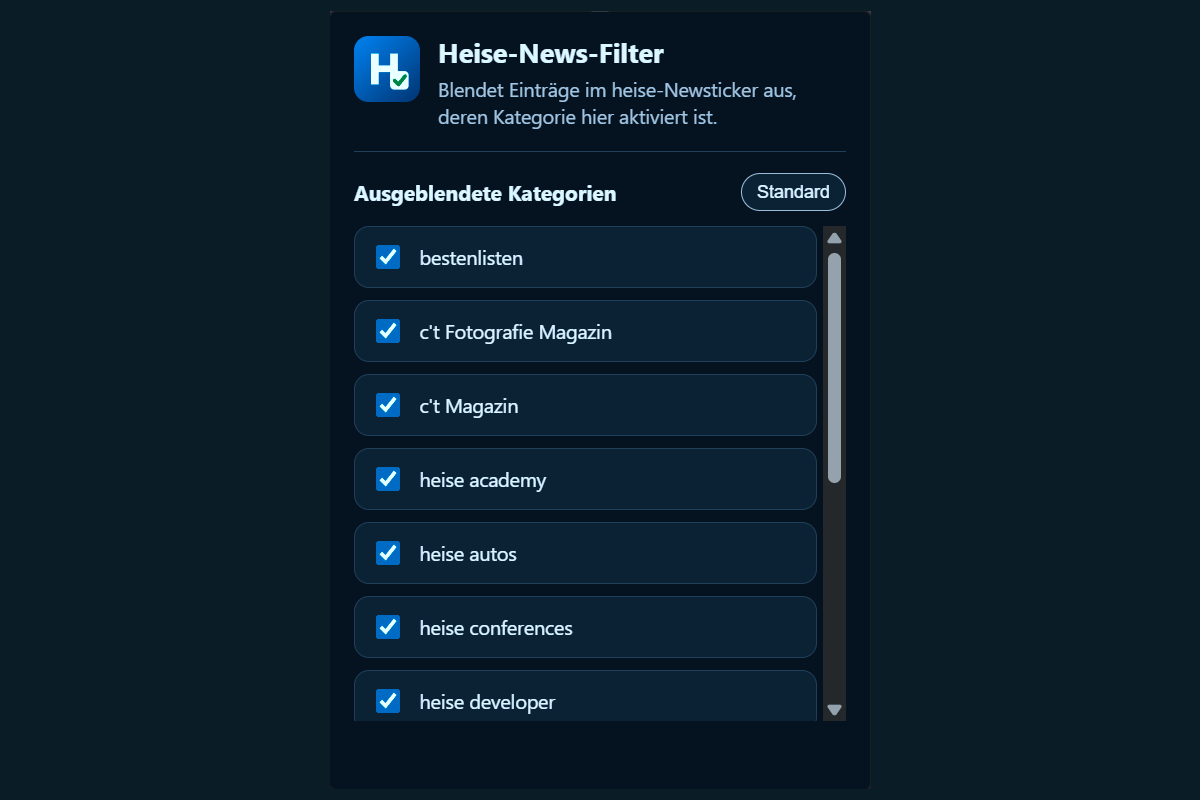
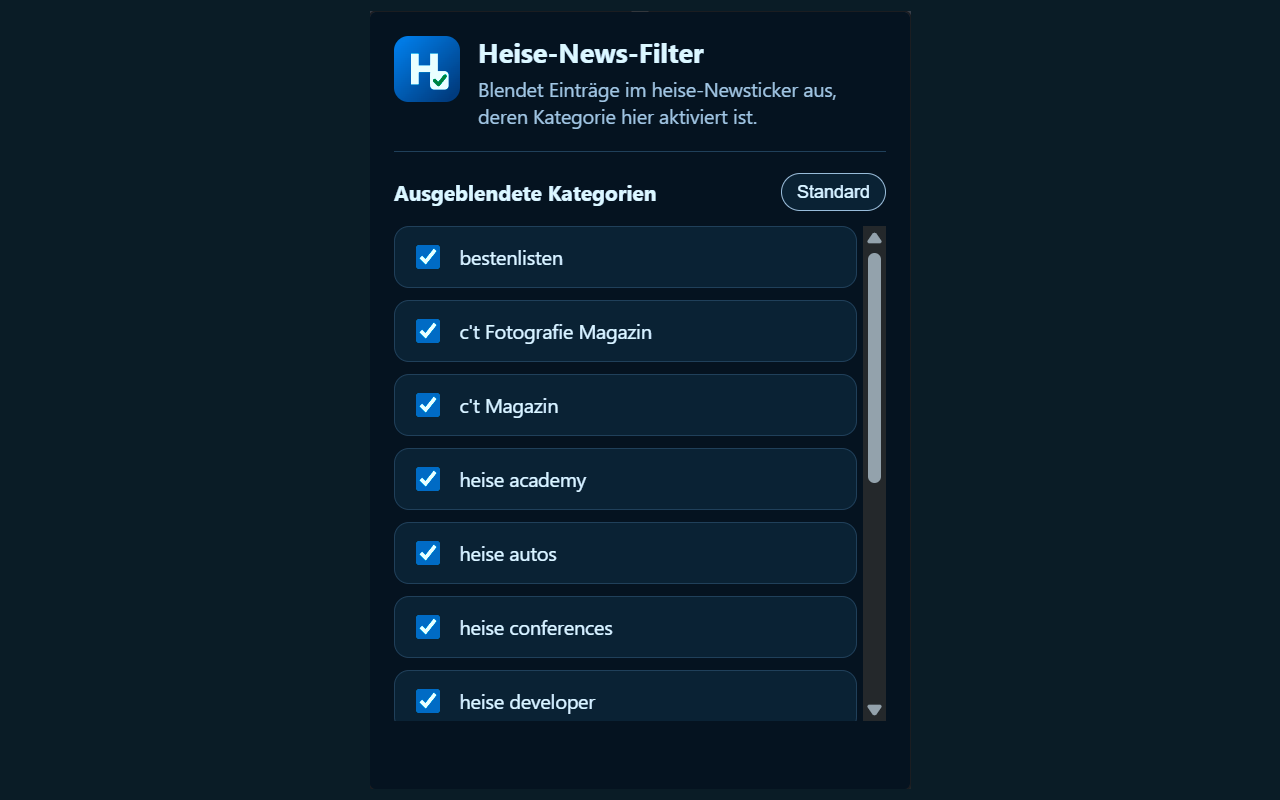
Add configurable title-based heise news filters

diff --git a/content.js b/content.js
@@ -1,22 +1,29 @@
 (async function () {
   const hiddenAttribute = "data-heise-news-filter-hidden";
   let hiddenCategories = new Set(DEFAULT_HIDDEN_CATEGORIES);
+  let hiddenTitleFilters = new Set(DEFAULT_HIDDEN_TITLE_FILTERS);
   let knownCategories = new Set(SEEDED_CATEGORIES);
   let observer;
 
-  function findCategory(article) {
+  function findCategories(article) {
     const meta = article.querySelector(".typo-meta.text-accent");
 
     if (!meta) {
-      return "";
+      return [];
     }
 
-    const visibleSpans = [...meta.querySelectorAll("span")]
+    return [...meta.querySelectorAll("span")]
       .filter((span) => !span.classList.contains("sr-only"))
       .map((span) => normalizeCategory(span.textContent || ""))
       .filter(Boolean);
+  }
 
-    return visibleSpans.at(-1) || "";
+  function findTitle(article) {
+    return article.querySelector("h3")?.textContent?.replace(/\s+/g, " ").trim() || "";
+  }
+
+  function isTitleHidden(title) {
+    return TITLE_FILTERS.some((filter) => hiddenTitleFilters.has(filter.id) && filter.pattern.test(title));
   }
 
   function getArticles() {
@@ -39,12 +46,11 @@
     const foundCategories = [];
 
     for (const article of getArticles()) {
-      const category = findCategory(article);
-      const shouldHide = category && hiddenCategories.has(category);
+      const categories = findCategories(article);
+      const title = findTitle(article);
+      const shouldHide = categories.some((category) => hiddenCategories.has(category)) || isTitleHidden(title);
 
-      if (category) {
-        foundCategories.push(category);
-      }
+      foundCategories.push(...categories);
 
       article.hidden = shouldHide;
       article.toggleAttribute(hiddenAttribute, shouldHide);
@@ -56,10 +62,12 @@
   async function loadSettings() {
     const stored = await storageGet({
       [STORAGE_KEYS.hiddenCategories]: DEFAULT_HIDDEN_CATEGORIES,
+      [STORAGE_KEYS.hiddenTitleFilters]: DEFAULT_HIDDEN_TITLE_FILTERS,
       [STORAGE_KEYS.knownCategories]: SEEDED_CATEGORIES
     });
 
     hiddenCategories = new Set(uniqueCategories(stored[STORAGE_KEYS.hiddenCategories]));
+    hiddenTitleFilters = new Set(uniqueTitleFilterIds(stored[STORAGE_KEYS.hiddenTitleFilters]));
     knownCategories = new Set(uniqueCategories([
       ...SEEDED_CATEGORIES,
       ...stored[STORAGE_KEYS.knownCategories]
@@ -69,12 +77,21 @@
   }
 
   chrome.storage.onChanged.addListener((changes, areaName) => {
-    if (areaName !== "sync" || !changes[STORAGE_KEYS.hiddenCategories]) {
+    if (areaName !== "sync") {
       return;
     }
 
-    hiddenCategories = new Set(uniqueCategories(changes[STORAGE_KEYS.hiddenCategories].newValue || []));
-    applyFilters();
+    if (changes[STORAGE_KEYS.hiddenCategories]) {
+      hiddenCategories = new Set(uniqueCategories(changes[STORAGE_KEYS.hiddenCategories].newValue || []));
+    }
+
+    if (changes[STORAGE_KEYS.hiddenTitleFilters]) {
+      hiddenTitleFilters = new Set(uniqueTitleFilterIds(changes[STORAGE_KEYS.hiddenTitleFilters].newValue || []));
+    }
+
+    if (changes[STORAGE_KEYS.hiddenCategories] || changes[STORAGE_KEYS.hiddenTitleFilters]) {
+      applyFilters();
+    }
   });
 
   await loadSettings();

diff --git a/popup.js b/popup.js
@@ -1,7 +1,9 @@
 const listElement = document.querySelector("#category-list");
+const titleFilterListElement = document.querySelector("#title-filter-list");
 const statusElement = document.querySelector("#status");
 const resetButton = document.querySelector("#reset-button");
 let hiddenCategories = new Set(DEFAULT_HIDDEN_CATEGORIES);
+let hiddenTitleFilters = new Set(DEFAULT_HIDDEN_TITLE_FILTERS);
 let statusTimer;
 
 function showStatus(message) {
@@ -14,6 +16,11 @@ function showStatus(message) {
 
 async function saveHiddenCategories() {
   await storageSet({ [STORAGE_KEYS.hiddenCategories]: sortCategories(hiddenCategories) });
+  showStatus("Einstellung gespeichert.");
+}
+
+async function saveHiddenTitleFilters() {
+  await storageSet({ [STORAGE_KEYS.hiddenTitleFilters]: uniqueTitleFilterIds([...hiddenTitleFilters]) });
   showStatus("Einstellung gespeichert.");
 }
 
@@ -41,17 +48,47 @@ function createCategoryOption(category) {
   return label;
 }
 
+function createTitleFilterOption(filter) {
+  const label = document.createElement("label");
+  label.className = "category-option";
+
+  const checkbox = document.createElement("input");
+  checkbox.type = "checkbox";
+  checkbox.checked = hiddenTitleFilters.has(filter.id);
+  checkbox.addEventListener("change", async () => {
+    if (checkbox.checked) {
+      hiddenTitleFilters.add(filter.id);
+    } else {
+      hiddenTitleFilters.delete(filter.id);
+    }
+
+    await saveHiddenTitleFilters();
+  });
+
+  const text = document.createElement("span");
+  text.textContent = filter.label;
+
+  label.append(checkbox, text);
+  return label;
+}
+
 function renderCategories(categories) {
   listElement.replaceChildren(...categories.map(createCategoryOption));
+}
+
+function renderTitleFilters() {
+  titleFilterListElement.replaceChildren(...TITLE_FILTERS.map(createTitleFilterOption));
 }
 
 async function loadPopup() {
   const stored = await storageGet({
     [STORAGE_KEYS.hiddenCategories]: DEFAULT_HIDDEN_CATEGORIES,
+    [STORAGE_KEYS.hiddenTitleFilters]: DEFAULT_HIDDEN_TITLE_FILTERS,
     [STORAGE_KEYS.knownCategories]: SEEDED_CATEGORIES
   });
 
   hiddenCategories = new Set(uniqueCategories(stored[STORAGE_KEYS.hiddenCategories]));
+  hiddenTitleFilters = new Set(uniqueTitleFilterIds(stored[STORAGE_KEYS.hiddenTitleFilters]));
   const categories = uniqueCategories([
     ...SEEDED_CATEGORIES,
     ...stored[STORAGE_KEYS.knownCategories]
@@ -59,11 +96,14 @@ async function loadPopup() {
 
   await storageSet({ [STORAGE_KEYS.knownCategories]: categories });
   renderCategories(categories);
+  renderTitleFilters();
 }
 
 resetButton.addEventListener("click", async () => {
   hiddenCategories = new Set(DEFAULT_HIDDEN_CATEGORIES);
+  hiddenTitleFilters = new Set(DEFAULT_HIDDEN_TITLE_FILTERS);
   await saveHiddenCategories();
+  await saveHiddenTitleFilters();
   await loadPopup();
 });
 

diff --git a/shared.js b/shared.js
@@ -1,4 +1,23 @@
 const DEFAULT_HIDDEN_CATEGORIES = ["bestenlisten", "heise+ exklusiv"];
+const DEFAULT_HIDDEN_TITLE_FILTERS = [];
+
+const TITLE_FILTERS = [
+  {
+    id: "daily-summary",
+    label: "Tageskurzzusammenfassungen",
+    pattern: /^(Montag|Dienstag|Mittwoch|Donnerstag|Freitag|Samstag|Sonntag):\s/i
+  },
+  {
+    id: "missing-link",
+    label: "Missing Link",
+    pattern: /^Missing Link:\s/i
+  },
+  {
+    id: "zahlen-bitte",
+    label: "Zahlen, bitte",
+    pattern: /^Zahlen, bitte:\s/i
+  }
+];
 
 const SEEDED_CATEGORIES = [
   "bestenlisten",
@@ -13,11 +32,13 @@ const SEEDED_CATEGORIES = [
   "heise+ exklusiv",
   "iX Magazin",
   "Mac & i Magazin",
-  "Make Magazin"
+  "Make Magazin",
+  "WTF"
 ];
 
 const STORAGE_KEYS = {
   hiddenCategories: "hiddenCategories",
+  hiddenTitleFilters: "hiddenTitleFilters",
   knownCategories: "knownCategories"
 };
 
@@ -31,6 +52,11 @@ function sortCategories(categories) {
 
 function uniqueCategories(categories) {
   return sortCategories([...new Set(categories.map(normalizeCategory).filter(Boolean))]);
+}
+
+function uniqueTitleFilterIds(filterIds) {
+  const validIds = new Set(TITLE_FILTERS.map((filter) => filter.id));
+  return [...new Set(filterIds)].filter((filterId) => validIds.has(filterId));
 }
 
 function storageGet(defaults) {

diff --git a/popup.html b/popup.html
@@ -12,7 +12,7 @@
       <img src="icons/icon.svg" alt="" class="logo">
       <div>
         <h1>Heise-News-Filter</h1>
-        <p>Blendet Einträge im heise-Newsticker aus, deren Kategorie hier aktiviert ist.</p>
+        <p>Blendet Einträge im heise-Newsticker nach aktivierten Kategorien und Rubriken aus.</p>
       </div>
     </header>
 
@@ -22,6 +22,13 @@
         <button id="reset-button" type="button">Standard</button>
       </div>
       <div id="category-list" class="category-list" aria-live="polite"></div>
+    </section>
+
+    <section class="controls" aria-labelledby="title-filter-heading">
+      <div class="section-title">
+        <h2 id="title-filter-heading">Ausgeblendete Rubriken</h2>
+      </div>
+      <div id="title-filter-list" class="category-list" aria-live="polite"></div>
     </section>
 
     <p id="status" class="status" role="status"></p>

diff --git a/README.md b/README.md
@@ -1,13 +1,28 @@
-# heise-news-filter-chrome-extension
+# Heise-News-Filter
 
-Chrome-Extension zum Ausblenden bestimmter Kategorien im heise-Newsticker.
+Chrome-Extension zum Ausblenden unerwünschter Einträge im heise-Newsticker.
 
 ## Funktionen
 
-- filtert Newsticker-Einträge auf `heise.de` anhand der Kategorie im Meta-Bereich des Artikels
-- konfigurierbar über das Popup der Extension
+- filtert Newsticker-Einträge auf `heise.de` anhand der Kategorien im Meta-Bereich des Artikels
 - blendet standardmäßig `bestenlisten` und `heise+ exklusiv` aus
-- erkennt zusätzliche Kategorien beim Besuch der Seite automatisch und zeigt sie später im Popup an
+- unterstützt zusätzliche Kategorien wie `WTF`
+- erkennt weitere Kategorien beim Besuch der Seite automatisch und zeigt sie später im Popup an
+- kann regelmäßige Rubriken anhand des Titels ausblenden:
+  - Tageskurzzusammenfassungen mit `Montag:` bis `Sonntag:`
+  - `Missing Link:`
+  - `Zahlen, bitte:`
+- ist über das Popup der Extension konfigurierbar
+- speichert Einstellungen per Chrome-Sync-Storage
+
+## Bedienung
+
+1. Heise-News-Filter über das Extension-Symbol öffnen.
+2. Unter `Ausgeblendete Kategorien` die Kategorien aktivieren, die nicht angezeigt werden sollen.
+3. Unter `Ausgeblendete Rubriken` regelmäßige Titel-Filter aktivieren.
+4. Die Änderungen werden automatisch gespeichert und direkt auf geöffneten heise-Seiten angewendet.
+
+Mit `Standard` werden die Standard-Kategorie-Filter wiederhergestellt und Rubrikfilter deaktiviert.
 
 ## Installation zum Entwickeln
 
@@ -15,3 +30,7 @@ Chrome-Extension zum Ausblenden bestimmter Kategorien im heise-Newsticker.
 2. Den Entwicklermodus aktivieren.
 3. `Entpackte Erweiterung laden` auswählen.
 4. Dieses Projektverzeichnis auswählen.
+
+## Datenschutz
+
+Die Extension verarbeitet nur Inhalte auf `heise.de`, um Newsticker-Einträge im Browser auszublenden. Einstellungen werden über `chrome.storage.sync` gespeichert. Es werden keine Daten an externe Server übertragen.

diff --git a/STORE_DESCRIPTION.md b/STORE_DESCRIPTION.md
@@ -1,0 +1,23 @@
+# Chrome Web Store Beschreibung
+
+## Kurzbeschreibung
+
+Blendet unerwünschte Einträge im heise-Newsticker nach Kategorie oder regelmäßiger Rubrik aus.
+
+## Beschreibung
+
+Heise-News-Filter macht den heise-Newsticker übersichtlicher, indem ausgewählte Kategorien und wiederkehrende Rubriken direkt im Browser ausgeblendet werden.
+
+Die Filter lassen sich bequem über das Popup der Erweiterung ein- und ausschalten. Standardmäßig werden `bestenlisten` und `heise+ exklusiv` ausgeblendet. Weitere erkannte Kategorien werden automatisch in den Einstellungen angeboten, darunter auch `WTF`.
+
+Zusätzlich können regelmäßige Rubriken anhand ihres Titels ausgeblendet werden:
+
+- Tageskurzzusammenfassungen mit `Montag:` bis `Sonntag:`
+- `Missing Link:`
+- `Zahlen, bitte:`
+
+Die Erweiterung verändert keine Inhalte dauerhaft. Sie blendet passende Artikel nur lokal im Browser aus. Einstellungen werden mit Chrome-Sync gespeichert, sofern verfügbar.
+
+## Datenschutz
+
+Die Erweiterung arbeitet lokal im Browser auf `heise.de`. Es werden keine Nutzungsdaten gesammelt, keine Inhalte an externe Server übertragen und keine Tracking-Funktionen verwendet. Gespeichert werden ausschließlich die Filtereinstellungen der Erweiterung über `chrome.storage.sync`.
